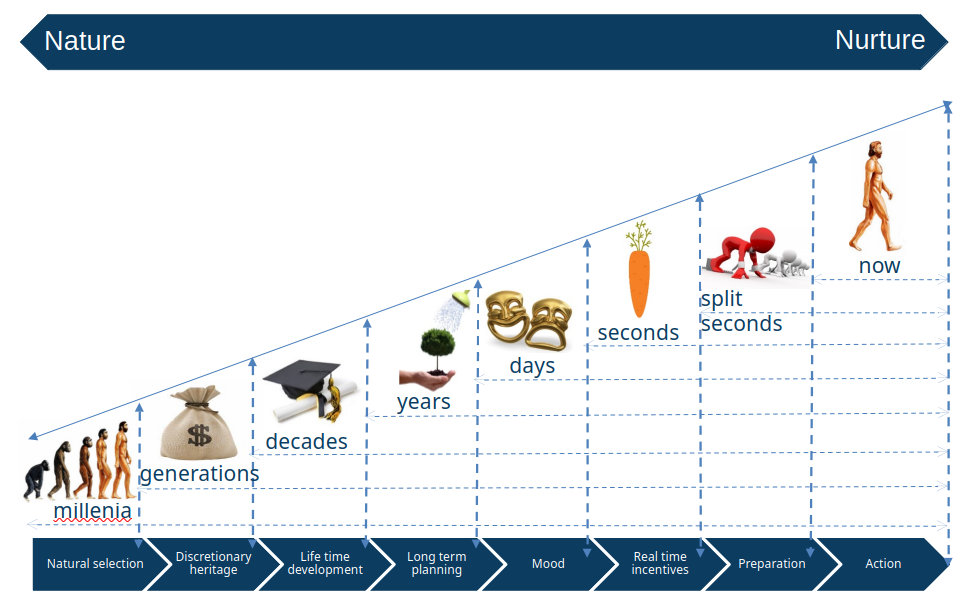
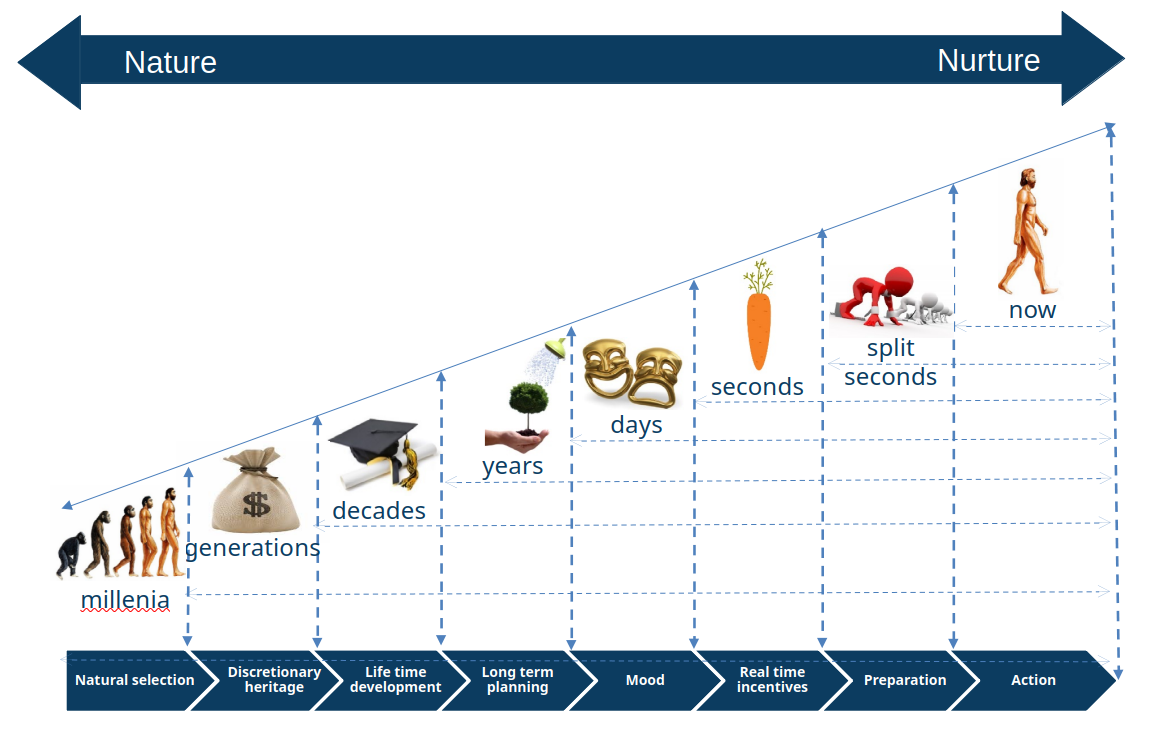
Deploy from doesburg11/human-behavior-site@72be35d7483ab3c10fdada91d5e0e1c62dd555fe

Changed region(s): [[0.0, 0.1547, 0.9856, 0.9902], [0.0, 0.0, 0.9856, 0.1547], [0.8008, 0.7736, 0.924, 0.8046]]

diff --git a/assets/js/runtime~main.ba46aad5.js b/assets/js/runtime~main.ba46aad5.js
@@ -1,0 +1,1 @@
+(()=>{"use strict";var e,a,t,r,f,c={},d={};function o(e){var a=d[e];if(void 0!==a)return a.exports;var t=d[e]={id:e,loaded:!1,exports:{}};return c[e].call(t.exports,t,t.exports,o),t.loaded=!0,t.exports}o.m=c,o.c=d,e=[],o.O=(a,t,r,f)=>{if(!t){var c=1/0;for(i=0;i<e.length;i++){for(var[t,r,f]=e[i],d=!0,b=0;b<t.length;b++)(!1&f||c>=f)&&Object.keys(o.O).every(e=>o.O[e](t[b]))?t.splice(b--,1):(d=!1,f<c&&(c=f));if(d){e.splice(i--,1);var n=r();void 0!==n&&(a=n)}}return a}f=f||0;for(var i=e.length;i>0&&e[i-1][2]>f;i--)e[i]=e[i-1];e[i]=[t,r,f]},o.n=e=>{var a=e&&e.__esModule?()=>e.default:()=>e;return o.d(a,{a:a}),a},t=Object.getPrototypeOf?e=>Object.getPrototypeOf(e):e=>e.__proto__,o.t=function(e,r){if(1&r&&(e=this(e)),8&r)return e;if("object"==typeof e&&e){if(4&r&&e.__esModule)return e;if(16&r&&"function"==typeof e.then)return e}var f=Object.create(null);o.r(f);var c={};a=a||[null,t({}),t([]),t(t)];for(var d=2&r&&e;"object"==typeof d&&!~a.indexOf(d);d=t(d))Object.getOwnPropertyNames(d).forEach(a=>c[a]=()=>e[a]);return c.default=()=>e,o.d(f,c),f},o.d=(e,a)=>{for(var t in a)o.o(a,t)&&!o.o(e,t)&&Object.defineProperty(e,t,{enumerable:!0,get:a[t]})},o.f={},o.e=e=>Promise.all(Object.keys(o.f).reduce((a,t)=>(o.f[t](e,a),a),[])),o.u=e=>"assets/js/"+({132:"aa500c4e",326:"a6990217",837:"3b386f8d",994:"5a420d12",1235:"a7456010",1567:"22dd74f7",2014:"45210e11",2174:"0a962638",2281:"7c22eec7",3361:"c377a04b",3412:"cebf0465",3423:"f12014cc",3462:"f9d844df",3477:"415398b2",3758:"ff37cc81",3956:"bbfd8ad4",4134:"393be207",4461:"5a0ce251",4568:"32ecd9c0",4790:"b77be310",5014:"3e31d51c",5742:"aba21aa0",5849:"7440bc55",5947:"550559f7",6061:"1f391b9e",6277:"554e0fcb",6384:"3a06c567",6555:"1c6b7650",6572:"79e0abda",6577:"0950415f",6607:"82fcc6b2",6891:"e6a46aa6",7098:"a7bd4aaa",7131:"0f8fb3a2",7207:"eb8118f5",7464:"a283e27a",7501:"351127cd",7607:"c87d70de",7654:"b1a30244",8051:"8709e441",8401:"17896441",8634:"0a5171aa",8990:"a32af923",9048:"a94703ab",9051:"72cfd1ab",9149:"994c2a08",9647:"5e95c892",9885:"87c32d05"}[e]||e)+"."+{132:"5e580d41",326:"0e0bfb84",837:"fd6bed42",994:"5197a343",1235:"a7f651f1",1567:"a636016e",2014:"23840d0c",2174:"b6c04c59",2237:"ba1b51d8",2281:"3657e713",3361:"aa5b0dee",3412:"cd4d6029",3423:"078702cb",3462:"21885502",3477:"5d278925",3758:"17952834",3956:"17284ef1",4134:"7933da15",4461:"a90df72f",4568:"12d3fd0d",4790:"b80e79a9",5014:"b06d4659",5742:"ea495a74",5849:"0c584c23",5947:"ba504832",6061:"21f03729",6277:"f945d2b0",6384:"c094eca9",6555:"388295eb",6572:"ec2a4132",6577:"d8eddadd",6607:"baea8a2c",6891:"0fac4982",7098:"5eedd468",7131:"74932618",7207:"d83ee3aa",7464:"1377dab4",7501:"a70e8031",7607:"a4c44821",7654:"8c0ed8a0",8051:"67e7f733",8157:"75405b03",8401:"ba661ecb",8634:"12bb1f08",8990:"bef5d46f",9048:"4d3eefee",9051:"8217ea5e",9149:"a85566cd",9647:"f38f5565",9885:"071cf6a3"}[e]+".js",o.miniCssF=e=>{},o.g=function(){if("object"==typeof globalThis)return globalThis;try{return this||new Function("return this")()}catch(e){if("object"==typeof window)return window}}(),o.o=(e,a)=>Object.prototype.hasOwnProperty.call(e,a),r={},f="human-behavior-site:",o.l=(e,a,t,c)=>{if(r[e])r[e].push(a);else{var d,b;if(void 0!==t)for(var n=document.getElementsByTagName("script"),i=0;i<n.length;i++){var u=n[i];if(u.getAttribute("src")==e||u.getAttribute("data-webpack")==f+t){d=u;break}}d||(b=!0,(d=document.createElement("script")).charset="utf-8",d.timeout=120,o.nc&&d.setAttribute("nonce",o.nc),d.setAttribute("data-webpack",f+t),d.src=e),r[e]=[a];var l=(a,t)=>{d.onerror=d.onload=null,clearTimeout(s);var f=r[e];if(delete r[e],d.parentNode&&d.parentNode.removeChild(d),f&&f.forEach(e=>e(t)),a)return a(t)},s=setTimeout(l.bind(null,void 0,{type:"timeout",target:d}),12e4);d.onerror=l.bind(null,d.onerror),d.onload=l.bind(null,d.onload),b&&document.head.appendChild(d)}},o.r=e=>{"undefined"!=typeof Symbol&&Symbol.toStringTag&&Object.defineProperty(e,Symbol.toStringTag,{value:"Module"}),Object.defineProperty(e,"__esModule",{value:!0})},o.p="/",o.gca=function(e){return e={17896441:"8401",aa500c4e:"132",a6990217:"326","3b386f8d":"837","5a420d12":"994",a7456010:"1235","22dd74f7":"1567","45210e11":"2014","0a962638":"2174","7c22eec7":"2281",c377a04b:"3361",cebf0465:"3412",f12014cc:"3423",f9d844df:"3462","415398b2":"3477",ff37cc81:"3758",bbfd8ad4:"3956","393be207":"4134","5a0ce251":"4461","32ecd9c0":"4568",b77be310:"4790","3e31d51c":"5014",aba21aa0:"5742","7440bc55":"5849","550559f7":"5947","1f391b9e":"6061","554e0fcb":"6277","3a06c567":"6384","1c6b7650":"6555","79e0abda":"6572","0950415f":"6577","82fcc6b2":"6607",e6a46aa6:"6891",a7bd4aaa:"7098","0f8fb3a2":"7131",eb8118f5:"7207",a283e27a:"7464","351127cd":"7501",c87d70de:"7607",b1a30244:"7654","8709e441":"8051","0a5171aa":"8634",a32af923:"8990",a94703ab:"9048","72cfd1ab":"9051","994c2a08":"9149","5e95c892":"9647","87c32d05":"9885"}[e]||e,o.p+o.u(e)},(()=>{var e={5354:0,1869:0};o.f.j=(a,t)=>{var r=o.o(e,a)?e[a]:void 0;if(0!==r)if(r)t.push(r[2]);else if(/^(1869|5354)$/.test(a))e[a]=0;else{var f=new Promise((t,f)=>r=e[a]=[t,f]);t.push(r[2]=f);var c=o.p+o.u(a),d=new Error;o.l(c,t=>{if(o.o(e,a)&&(0!==(r=e[a])&&(e[a]=void 0),r)){var f=t&&("load"===t.type?"missing":t.type),c=t&&t.target&&t.target.src;d.message="Loading chunk "+a+" failed.\n("+f+": "+c+")",d.name="ChunkLoadError",d.type=f,d.request=c,r[1](d)}},"chunk-"+a,a)}},o.O.j=a=>0===e[a];var a=(a,t)=>{var r,f,[c,d,b]=t,n=0;if(c.some(a=>0!==e[a])){for(r in d)o.o(d,r)&&(o.m[r]=d[r]);if(b)var i=b(o)}for(a&&a(t);n<c.length;n++)f=c[n],o.o(e,f)&&e[f]&&e[f][0](),e[f]=0;return o.O(i)},t=self.webpackChunkhuman_behavior_site=self.webpackChunkhuman_behavior_site||[];t.forEach(a.bind(null,0)),t.push=a.bind(null,t.push.bind(t))})()})();

diff --git a/assets/js/c377a04b.aa5b0dee.js b/assets/js/c377a04b.aa5b0dee.js
@@ -1,0 +1,1 @@
+"use strict";(self.webpackChunkhuman_behavior_site=self.webpackChunkhuman_behavior_site||[]).push([[3361],{2939:(e,n,t)=>{t.r(n),t.d(n,{assets:()=>l,contentTitle:()=>o,default:()=>h,frontMatter:()=>s,metadata:()=>i,toc:()=>c});const i=JSON.parse('{"id":"index","title":"The Human Behavior Patterns Project","description":"This project aims to explore human cooperative behavior by Artificial Intelligence at two complementary and intertwined levels:","source":"@site/docs/index.md","sourceDirName":".","slug":"/","permalink":"/","draft":false,"unlisted":false,"editUrl":"https://github.com/doesburg11/doesburg11.github.io/edit/main/docs/index.md","tags":[],"version":"current","sidebarPosition":1,"frontMatter":{"id":"index","title":"The Human Behavior Patterns Project","sidebar_position":1},"sidebar":"tutorialSidebar","next":{"title":"The Human Behavior Patterns Project","permalink":"/human-behavior-patterns/overview-hbp"}}');var r=t(4848),a=t(8453);const s={id:"index",title:"The Human Behavior Patterns Project",sidebar_position:1},o=void 0,l={},c=[];function d(e){const n={li:"li",p:"p",strong:"strong",ul:"ul",...(0,a.R)(),...e.components};return(0,r.jsxs)(r.Fragment,{children:[(0,r.jsx)("figure",{style:{textAlign:"center"},children:(0,r.jsx)("img",{src:"/img/display-0.jpg",alt:"Display 1: Human Behavior Patterns"})}),"\n",(0,r.jsxs)(n.p,{children:["This project aims to explore human ",(0,r.jsx)(n.strong,{children:"cooperative behavior"})," by Artificial Intelligence at two complementary and intertwined levels:"]}),"\n",(0,r.jsxs)(n.ul,{children:["\n",(0,r.jsxs)(n.li,{children:["\n",(0,r.jsxs)(n.p,{children:[(0,r.jsx)(n.strong,{children:"Nature"})," \u2192  Evolving cooperation over generations by natural selection"]}),"\n"]}),"\n",(0,r.jsxs)(n.li,{children:["\n",(0,r.jsxs)(n.p,{children:[(0,r.jsx)(n.strong,{children:"Nurture"})," \u2192 Learning to cooperate within lifetime"]}),"\n"]}),"\n"]}),"\n",(0,r.jsx)(n.p,{children:"Human cooperative behavior could be viewed as contemporary action based upon ancestral hardware. The origins of curent human cooperative behavior is a blend of events in history ranging from millions of years in the past until split seconds ago."}),"\n",(0,r.jsxs)("figure",{style:{textAlign:"center"},children:[(0,r.jsx)("img",{src:"/img/display-1.png",alt:"Display 1: Origins of behavior by Nature and Nurture",width:"1000"}),(0,r.jsxs)("figcaption",{children:[(0,r.jsx)("strong",{children:"Display 1:"})," Origins of (cooperative) behavior by Nature and Nurture"]})]}),"\n",(0,r.jsx)(n.p,{children:"Rather than prescribing cooperative behavior through reward engineering, we investigate the minimal ecological, interactional, and selection constraints under which cooperative behavior emerges  in a multi-agent ecosystem. We explicitly treat life time experience (nurture) and evolutionary selection (nature) as dynamically intertwined processes with feedback loops rather than separable explanatory categories:"}),"\n",(0,r.jsxs)(n.ul,{children:["\n",(0,r.jsxs)(n.li,{children:["\n",(0,r.jsx)(n.p,{children:"Evolution shapes learning capacities."}),"\n"]}),"\n",(0,r.jsxs)(n.li,{children:["\n",(0,r.jsx)(n.p,{children:"Learning reshapes ecological structure."}),"\n"]}),"\n",(0,r.jsxs)(n.li,{children:["\n",(0,r.jsx)(n.p,{children:"Ecological structure reshapes selection gradients."}),"\n"]}),"\n"]}),"\n",(0,r.jsx)(n.p,{children:"Plasticity functions as the bridge between nature and nurture. It refers to an agent\u2019s inherited capacity to modify its behavior to current conditions in response to experience. Evolution (nature) does not directly encode specific cooperative behaviors; rather, it shapes the degree of plasticity \u2014 the learning rate, memory capacity, exploratory bias, and adaptability of the agent. Learning (nurture) then operates within these evolved constraints, adjusting behavior to local ecological conditions. In dynamic environments, higher plasticity may be favored because it allows rapid adaptation; in stable environments, lower plasticity may be selected for efficiency and robustness. Thus, evolution shapes the architecture of learning, while learning reshapes the selective landscape. Plasticity therefore closes the feedback loop between generational selection and lifetime adaptation, making nature and nurture inseparable components of behavioral dynamics."}),"\n",(0,r.jsxs)("figure",{style:{textAlign:"center"},children:[(0,r.jsx)("img",{src:"/img/display-2.jpg",alt:"Display 2: Nature and Nurture as fundamentals of behavior",width:"400"}),(0,r.jsxs)("figcaption",{children:[(0,r.jsx)("strong",{children:"Display 2:"})," Nature and Nurture as intertwined fundamentals of behavior"]})]})]})}function h(e={}){const{wrapper:n}={...(0,a.R)(),...e.components};return n?(0,r.jsx)(n,{...e,children:(0,r.jsx)(d,{...e})}):d(e)}},8453:(e,n,t)=>{t.d(n,{R:()=>s,x:()=>o});var i=t(6540);const r={},a=i.createContext(r);function s(e){const n=i.useContext(a);return i.useMemo(function(){return"function"==typeof e?e(n):{...n,...e}},[n,e])}function o(e){let n;return n=e.disableParentContext?"function"==typeof e.components?e.components(r):e.components||r:s(e.components),i.createElement(a.Provider,{value:n},e.children)}}}]);
